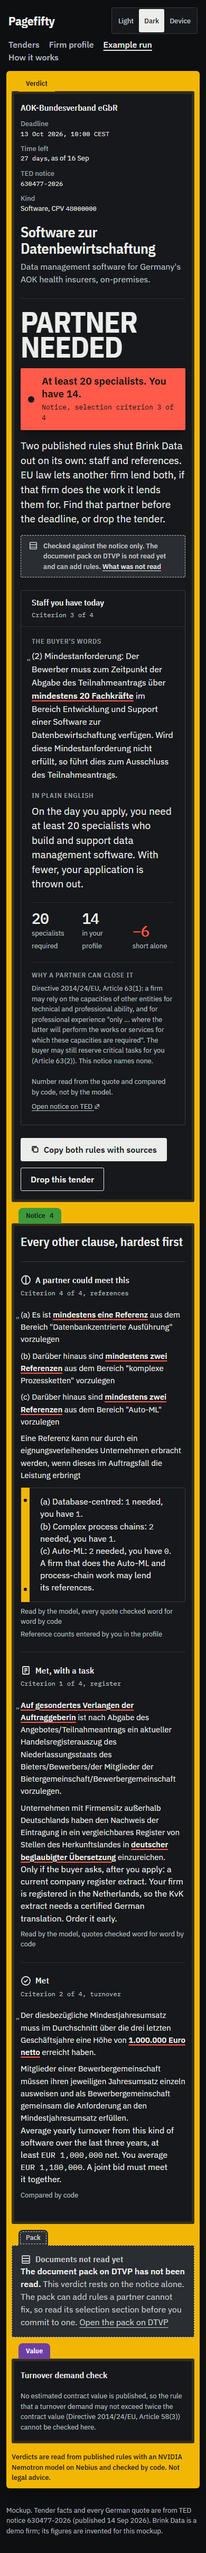
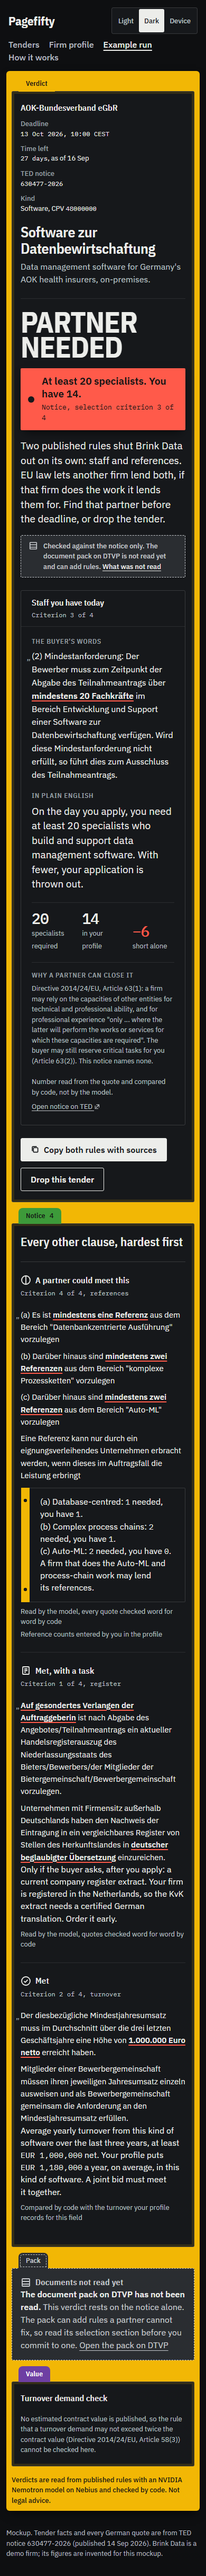
fix(design): compare turnover floors with the figure they demand
The captured notices set yearly floors: 600017 per year in IT operations
support, 612926 for each year in its field, 634313 total turnover in each
of the last three years, 634770 a year from comparable work. The tenders
rows compared each with the demo firm's three-year average. They now name
the demanded kind and the firm's best year of all work, EUR 1,240,000, which
bounds any narrower figure, so every shortfall stays certain and the
Partner needed verdicts hold.

The verdict page marked AOK's turnover criterion Met against the average.
Its code is slc-stand-to-spec: turnover from licensing data management
software, averaged over three years. REQUIREMENTS.md counts a criterion met
only on exactly the demanded kind, so the reading now says the profile
records that figure for this field. Tenders and verdict mockups recaptured.

ritual step suggest-1

Changed region(s): [[0.0615, 0.0, 0.9538, 0.9961], [0.4615, 0.0311, 0.5231, 0.0623], [0.8308, 0.5603, 0.8615, 0.5914]]

diff --git a/design/tenders.html b/design/tenders.html
@@ -86,8 +86,8 @@
 								<div class="vcell">
 									<span class="vtag out">Partner needed</span
 									><small
-										>Yearly turnover of at least EUR 4,000,000 for the smallest lot. You average EUR
-										1,180,000.</small
+										>At least EUR 4,000,000 a year from IT operations support, for the smallest lot.
+										Your best year, all work, was EUR 1,240,000.</small
 									>
 								</div>
 							</td>
@@ -105,7 +105,8 @@
 								<div class="vcell">
 									<span class="vtag out">Partner needed</span
 									><small
-										>Yearly turnover of at least EUR 3,000,000. You average EUR 1,180,000.</small
+										>At least EUR 3,000,000 a year from this field. Your best year, all work, was
+										EUR 1,240,000.</small
 									>
 								</div>
 							</td>
@@ -137,7 +138,8 @@
 								<div class="vcell">
 									<span class="vtag out">Partner needed</span
 									><small
-										>Yearly turnover of at least EUR 1,800,000. You average EUR 1,180,000.</small
+										>Turnover of at least EUR 1,800,000 in each of the last three years. Your best
+										year was EUR 1,240,000.</small
 									>
 								</div>
 							</td>
@@ -153,7 +155,8 @@
 								<div class="vcell">
 									<span class="vtag out">Partner needed</span
 									><small
-										>Yearly turnover of at least EUR 2,000,000. You average EUR 1,180,000.</small
+										>At least EUR 2,000,000 a year from comparable work. Your best year, all work,
+										was EUR 1,240,000.</small
 									>
 								</div>
 							</td>

diff --git a/design/verdict.html b/design/verdict.html
@@ -307,10 +307,13 @@
 						</blockquote>
 						<p class="reading">
 							Average yearly turnover from this kind of software over the last three years, at least
-							<span class="mono">EUR 1,000,000</span> net. You average
-							<span class="mono">EUR 1,180,000</span>. A joint bid must meet it together.
+							<span class="mono">EUR 1,000,000</span> net. Your profile puts
+							<span class="mono">EUR 1,180,000</span> a year, on average, in this kind of software.
+							A joint bid must meet it together.
 						</p>
-						<p class="meta"><span>Compared by code</span></p>
+						<p class="meta">
+							<span>Compared by code with the turnover your profile records for this field</span>
+						</p>
 					</li>
 				</ol>
 			</section>
